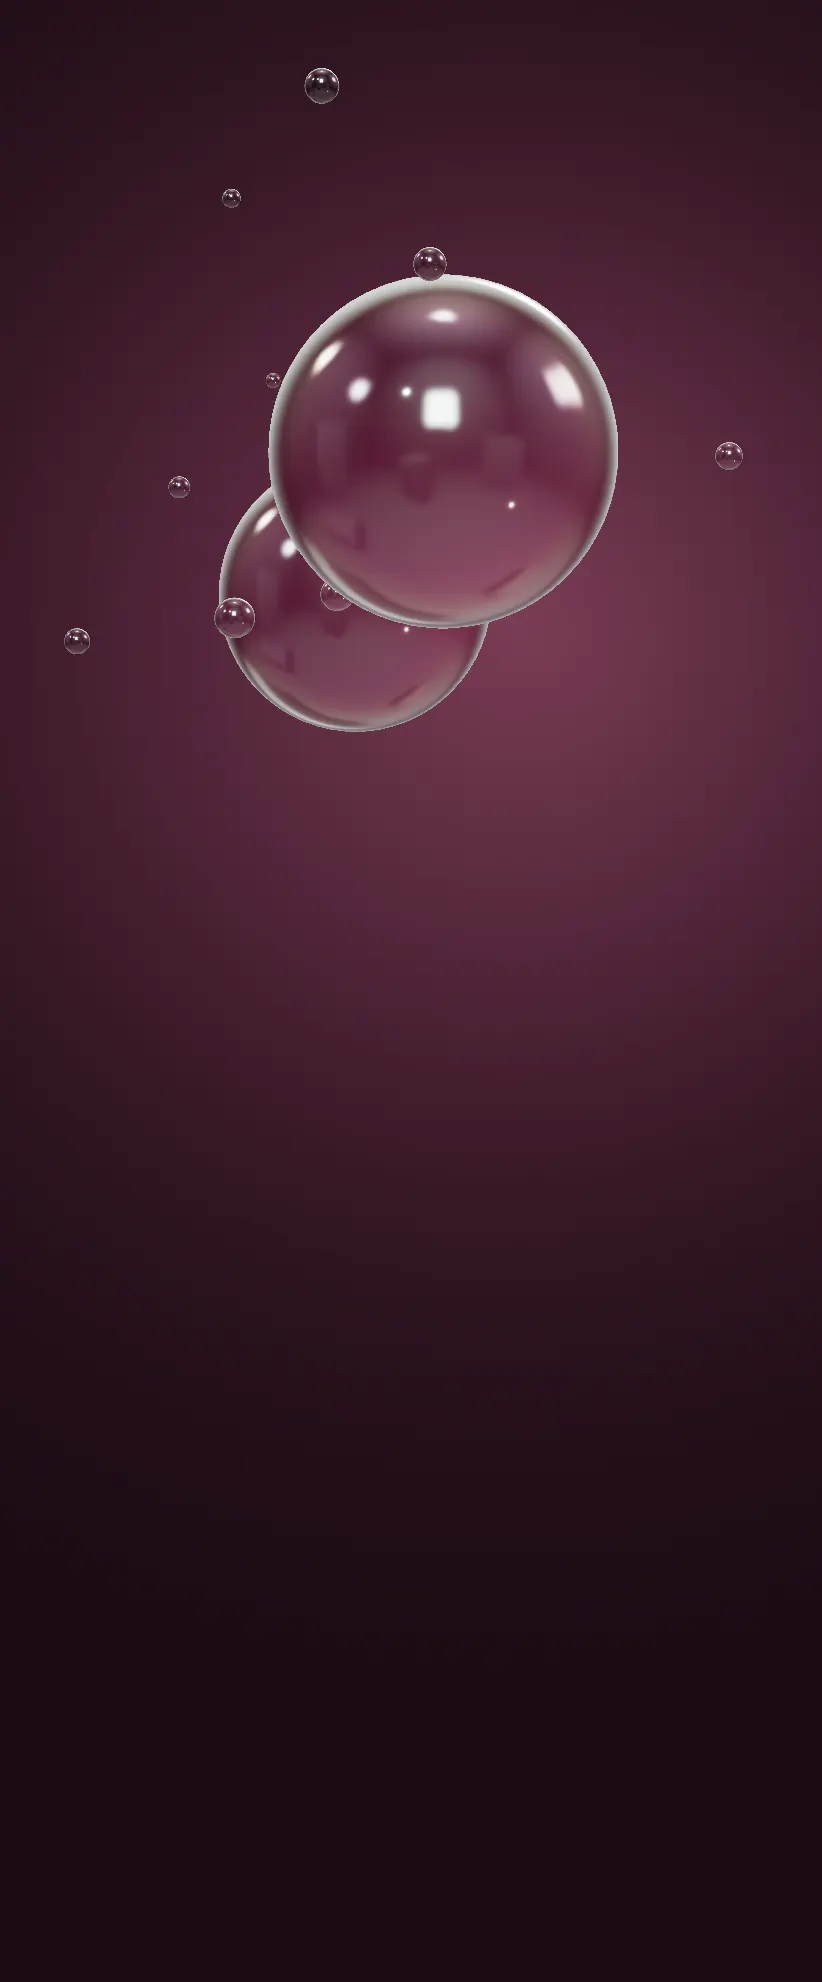
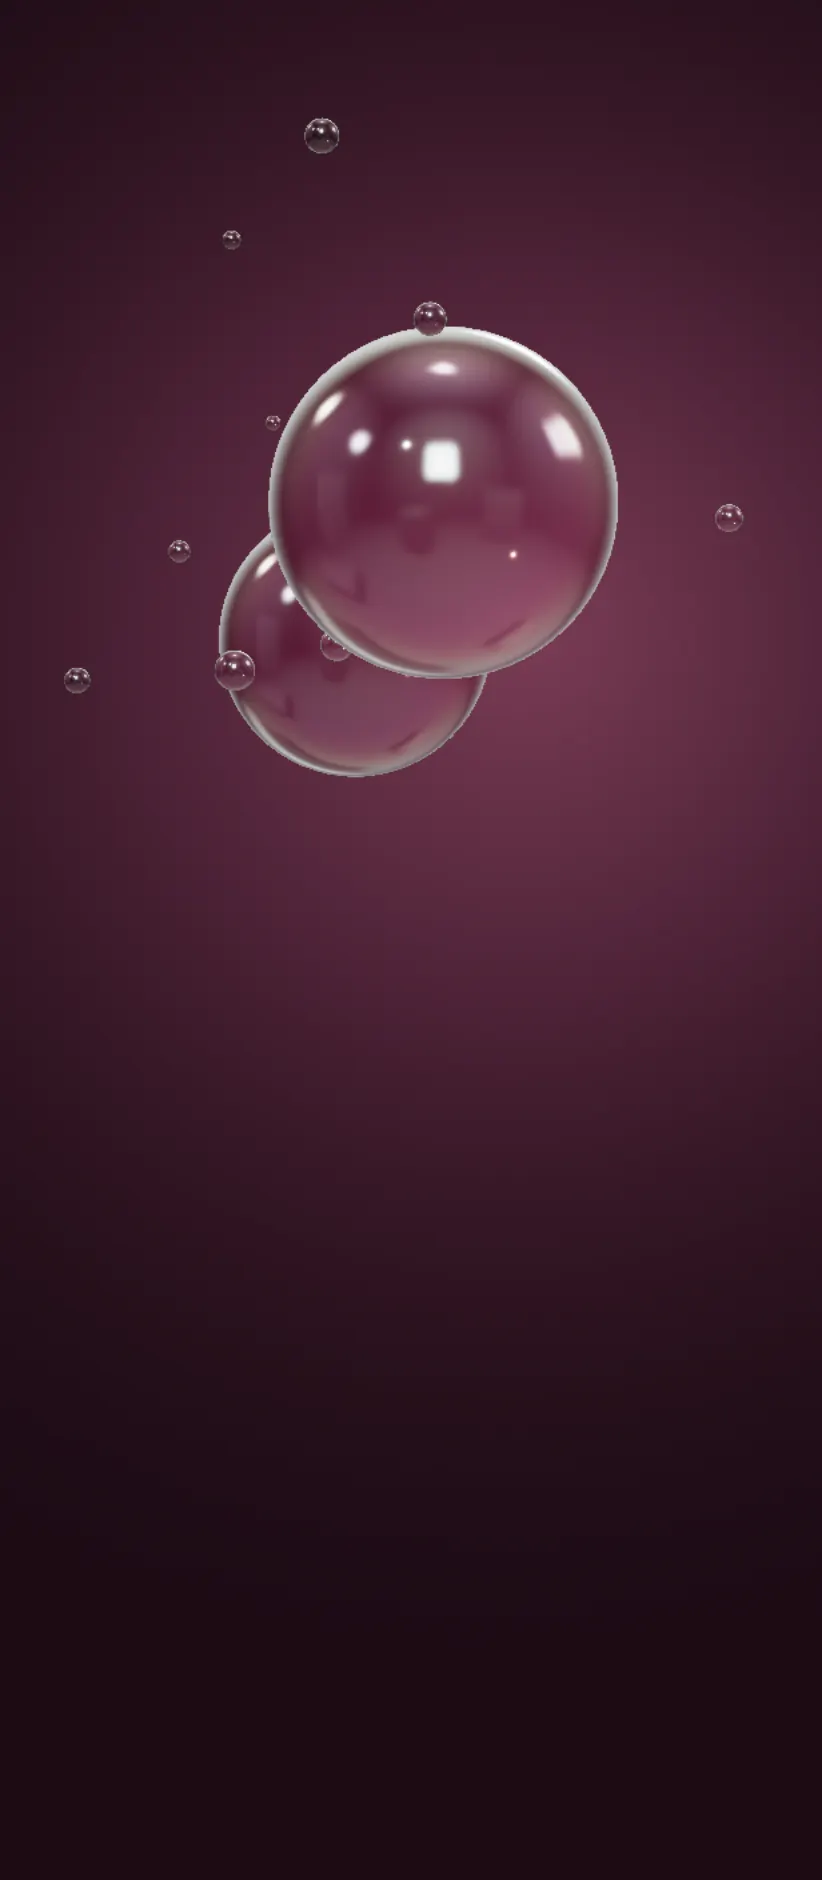
fix: estética sem engasgo ao rolar no celular e título da abertura sempre abaixo das bolhas
Claude-Session: https://claude.ai/code/session_01Wt2tzLRQ8rYmbmsAovnkw1

diff --git a/estetica/scene.js b/estetica/scene.js
@@ -125,7 +125,8 @@ function seeded(seed) {
 }
 
 export function startScene(host, quality, state) {
-  const stage = createStage(host, quality, { fov: 30, envIntensity: 1, exposure: 1.05, transparent: false });
+  // no celular até 1,5x de nitidez: o vidro de verdade custa, e 1,5x numa tela pequena já fica nítido
+  const stage = createStage(host, quality, { fov: 30, envIntensity: 1, exposure: 1.05, transparent: false, maxDpr: quality.tier === 'mid' ? 1.5 : 2 });
   const { scene, camera, pointer } = stage;
   // no celular a imagem que o vidro refrata é feita em meia resolução: fica igual a olho nu e pesa bem menos
   if (quality.tier === 'mid') stage.renderer.transmissionResolutionScale = 0.5;
@@ -242,8 +243,9 @@ export function startScene(host, quality, state) {
   const tmp = new Vector3();
 
   stage.onFrame = (dt, t) => {
-    const W = innerWidth;
-    const H = innerHeight;
+    // medidas do canvas (que tem a altura da tela cheia, sem mudar quando a barra do navegador some)
+    const W = stage.width;
+    const H = stage.height;
     const narrow = W / H < 0.8;
     const tt = reduce ? 0 : t;
 
@@ -277,7 +279,7 @@ export function startScene(host, quality, state) {
       const p = state.intro;
       const out = smooth(range(p, 0.25, 0.75));
       const unit = narrow ? u : a.size / 5.4; // tamanho relativo à tela
-      const top = a.y + halfH; // topo da abertura
+      const top = halfH - (introPin.getBoundingClientRect().top / H) * 2 * halfH; // topo da abertura
       intro.position.set(a.x, narrow ? top : a.y, 0);
       const ax = narrow ? 0.35 : 1.5;
       const ay = narrow ? -3.0 : 0.25;

diff --git a/base/stage.js b/base/stage.js
@@ -22,7 +22,7 @@ export function createStage(host, quality, opts = {}) {
   renderer.outputColorSpace = SRGBColorSpace;
   renderer.toneMapping = ACESFilmicToneMapping;
   renderer.toneMappingExposure = opts.exposure ?? 1;
-  let dpr = quality.dpr;
+  let dpr = Math.min(quality.dpr, opts.maxDpr ?? quality.dpr);
   renderer.setPixelRatio(dpr);
   renderer.domElement.className = 'stage-canvas';
   host.appendChild(renderer.domElement);
@@ -66,6 +66,8 @@ export function createStage(host, quality, opts = {}) {
   timer.connect?.(document);
   let frames = 0;
   let slowTime = 0;
+  let windowFrames = 0;
+  let windowSlow = 0;
   let ready = false;
 
   const stage = {
@@ -99,6 +101,20 @@ export function createStage(host, quality, opts = {}) {
       host.classList.add('is-ready');
     }
     // Se os primeiros 90 quadros ficarem lentos, baixa a resolução uma vez.
+    // Depois continua de olho: a cada 120 quadros, se mais da metade engasgou (ex.: rolando
+    // no celular), desce mais um degrau, até 1x.
+    if (frames >= 90 && dpr > 1) {
+      windowFrames++;
+      if (dt > 1 / 40) windowSlow++;
+      if (windowFrames === 120) {
+        if (windowSlow > 60) {
+          dpr = dpr > 1.5 ? 1.5 : 1;
+          renderer.setPixelRatio(dpr);
+          resize();
+        }
+        windowFrames = windowSlow = 0;
+      }
+    }
     if (frames < 90) {
       frames++;
       if (dt > 1 / 40) slowTime++;

diff --git a/estetica/style.css b/estetica/style.css
@@ -23,8 +23,14 @@ body {
 
 /* Canvas 3D fixo atrás de tudo. Seções escuras são transparentes e deixam ele aparecer. */
 .scene {
+  /* altura da tela cheia e fixa: quando a barra do navegador do celular aparece ou some,
+     o 3D não é refeito (era o que engasgava ao rolar) */
   position: fixed;
-  inset: 0;
+  top: 0;
+  left: 0;
+  right: 0;
+  height: 100vh;
+  height: 100lvh;
   z-index: 0;
   background:
     radial-gradient(90% 70% at 70% 30%, #4a2438 0%, rgba(74, 36, 56, 0) 70%),
@@ -1101,9 +1107,15 @@ em {
   :root {
     --hdr: 60px;
   }
+  /* no celular o título fica logo abaixo das bolhas (que se medem pela largura da tela),
+     e não preso embaixo: em tela baixa ele subia até as bolhas */
   .hero-copy {
     right: var(--gutter);
-    bottom: 40px;
+    top: calc(min(100vw, 60lvh) * 0.9 + 4px);
+    bottom: auto;
+  }
+  .hero-copy .lead {
+    margin: 16px 0 20px;
   }
   .stats {
     top: calc(var(--hdr) + 16px);

diff --git a/base/ui.js b/base/ui.js
@@ -18,7 +18,12 @@ export function reveal(root = document) {
     },
     { rootMargin: '0px 0px -12% 0px' },
   );
-  els.forEach((el) => io.observe(el));
+  els.forEach((el) => {
+    // o que já está na primeira tela ao abrir aparece direto, mesmo encostado no fim dela
+    // (em celular baixo o botão da abertura ficava nos últimos 12% e nunca aparecia)
+    if (scrollY === 0 && el.getBoundingClientRect().top < innerHeight) el.classList.add('is-in');
+    else io.observe(el);
+  });
 }
 
 // Quebra o texto em palavras pra animar em cascata: [data-split].

diff --git a/base/base.css b/base/base.css
@@ -130,6 +130,7 @@ ol {
   .poster-anchor img {
     top: 0;
     width: 79.7vh;
+    width: 79.7lvh;
     height: auto;
     transform: translateX(-50%);
   }
